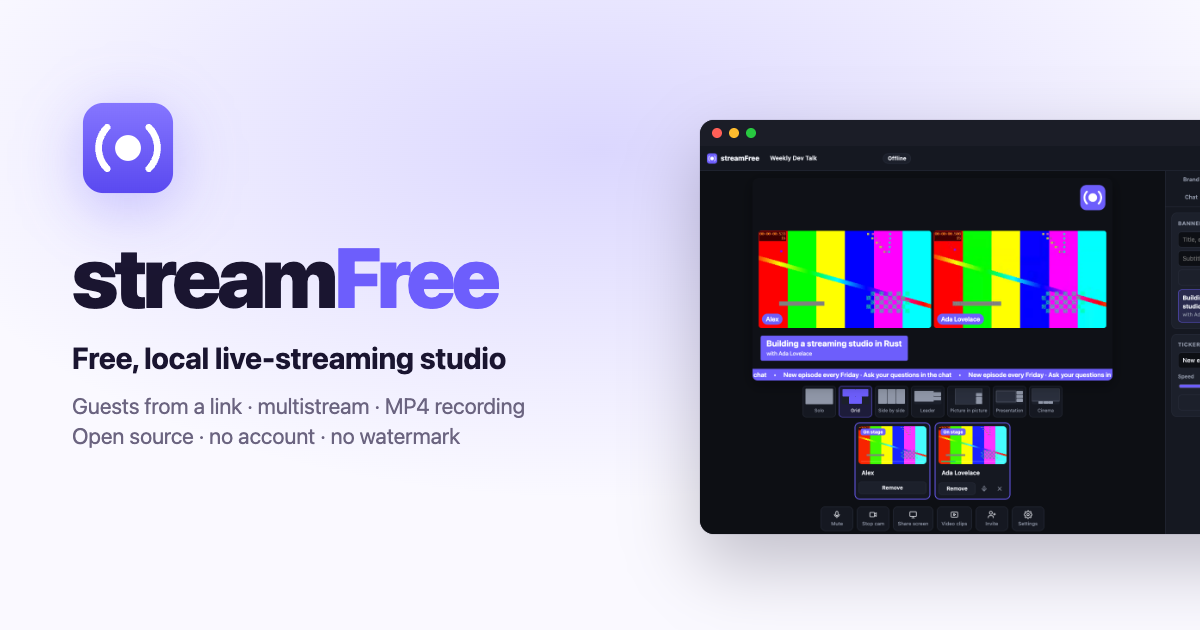
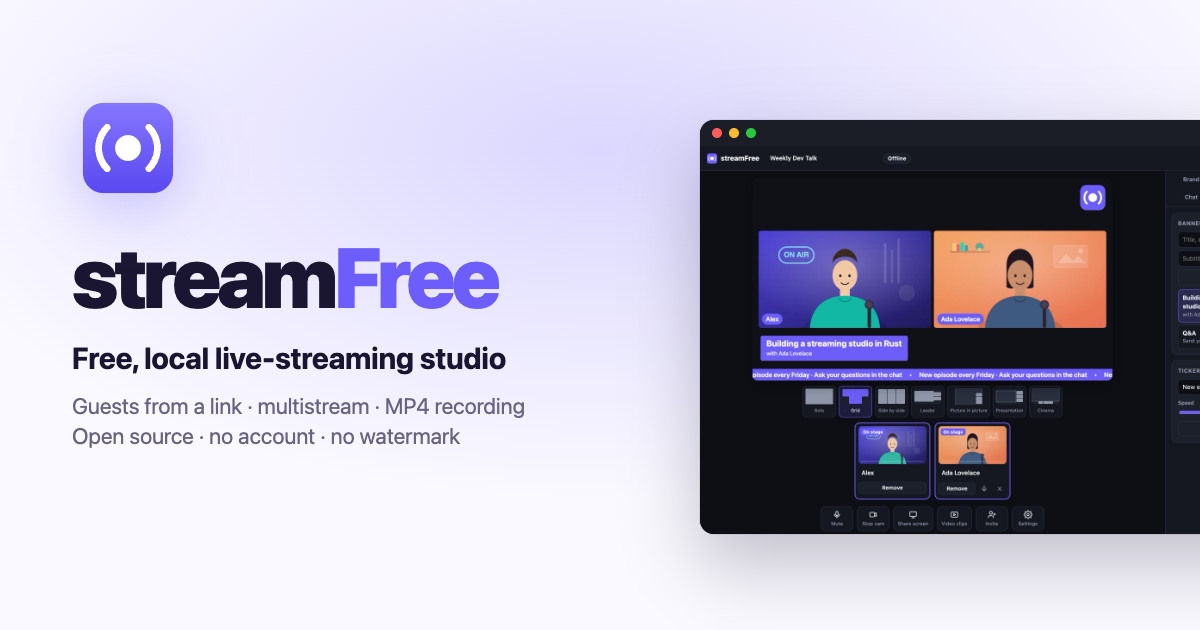
site: fix stretched screenshot and use a sharper one
The screenshot kept its 900 px height attribute while shrinking in
width, because img had max-width but no height:auto. Also replace it
with a 2x capture (illustrated camera feeds, logo, banner, ticker)
served through srcset, and refresh the social preview and READMEs.

diff --git a/site/index.html b/site/index.html
@@ -41,7 +41,7 @@
     }
     html[data-lang="it"] [lang="en"], html[data-lang="en"] [lang="it"] { display: none !important; }
     a { color: var(--accent-ink); }
-    img { max-width: 100%; display: block; }
+    img { max-width: 100%; height: auto; display: block; }
     code, pre { font-family: ui-monospace, SFMono-Regular, Menlo, Consolas, monospace; }
     .wrap { width: min(1080px, 100% - 32px); margin: 0 auto; }
     .center { text-align: center; }
@@ -298,7 +298,7 @@
       <p class="sub"><span lang="it">Anteprima del programma, layout, persone in scena, banner e destinazioni: tutto a portata di clic.</span><span lang="en">Program preview, layouts, people on stage, banners and destinations: all one click away.</span></p>
       <div class="window">
         <div class="window-bar"><i></i><i></i><i></i><span>streamFree</span></div>
-        <img src="assets/studio.png" width="1440" height="900" loading="lazy" alt="The streamFree studio: two people on stage in a grid layout, a lower-third banner, a scrolling ticker, the layout picker and the banners panel.">
+        <img src="assets/studio-1440.jpg" srcset="assets/studio-1440.jpg 1440w, assets/studio-2880.jpg 2880w" sizes="(max-width: 1032px) calc(100vw - 32px), 1000px" width="1440" height="900" loading="lazy" alt="The streamFree studio: host and guest on stage in a grid layout with a logo, a lower-third banner and a scrolling ticker; below, the layout picker and the people on stage; on the right, the banners panel.">
       </div>
     </div>
   </section>

diff --git a/README.it.md b/README.it.md
@@ -18,7 +18,7 @@ Un'app desktop sotto i 5 MB, senza account, abbonamento né watermark.
 
 </div>
 
-![Lo studio di streamFree: due persone in scena, un banner, un ticker e il pannello dei banner](docs/assets/studio.png)
+![Lo studio di streamFree: due persone in scena, un banner, un ticker e il pannello dei banner](docs/assets/studio.jpg)
 
 ## Download
 

diff --git a/README.md b/README.md
@@ -18,7 +18,7 @@ with no account, no subscription and no watermark.
 
 </div>
 
-![The streamFree studio: two people on stage, a lower-third banner, a ticker and the banners panel](docs/assets/studio.png)
+![The streamFree studio: two people on stage, a lower-third banner, a ticker and the banners panel](docs/assets/studio.jpg)
 
 ## Download
 
